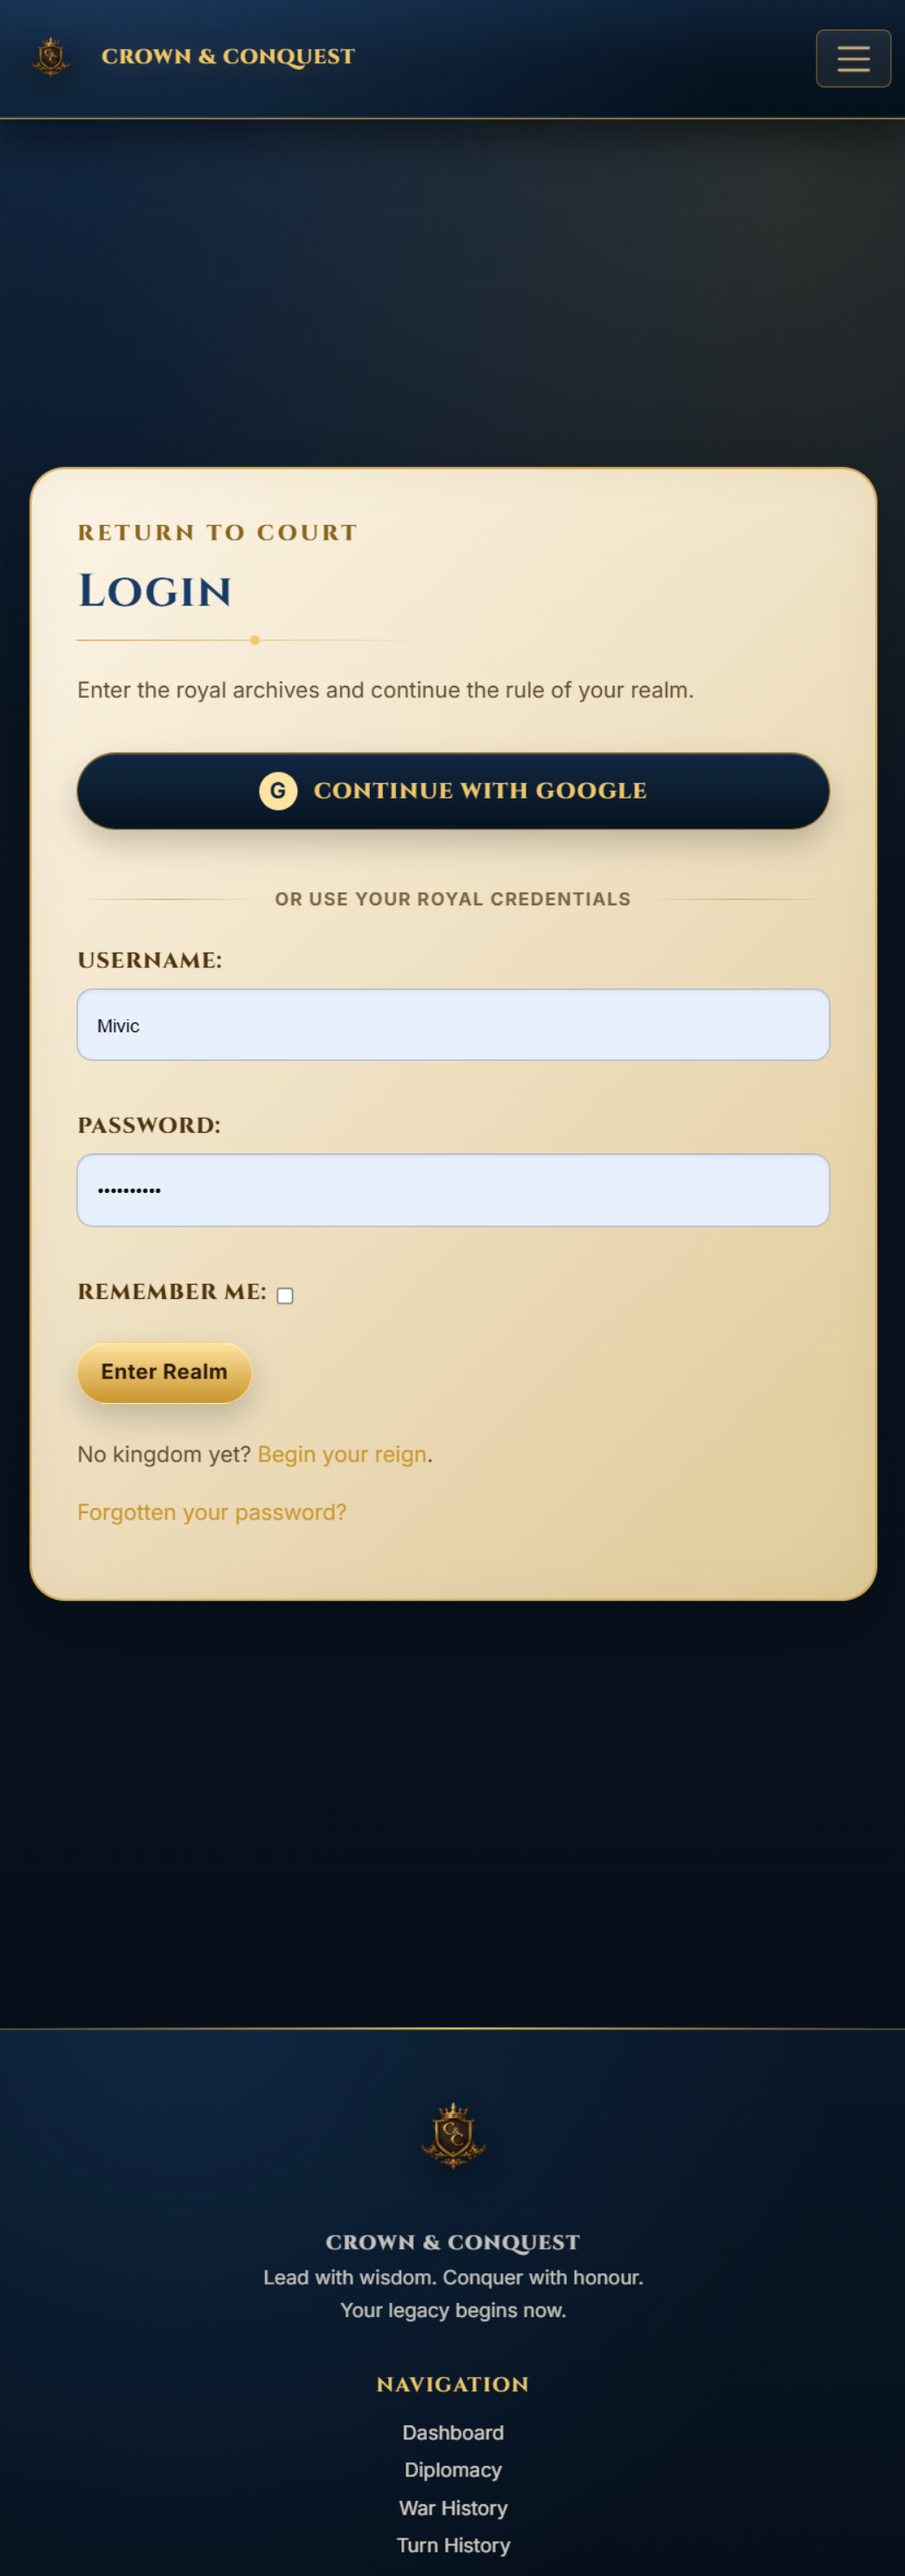
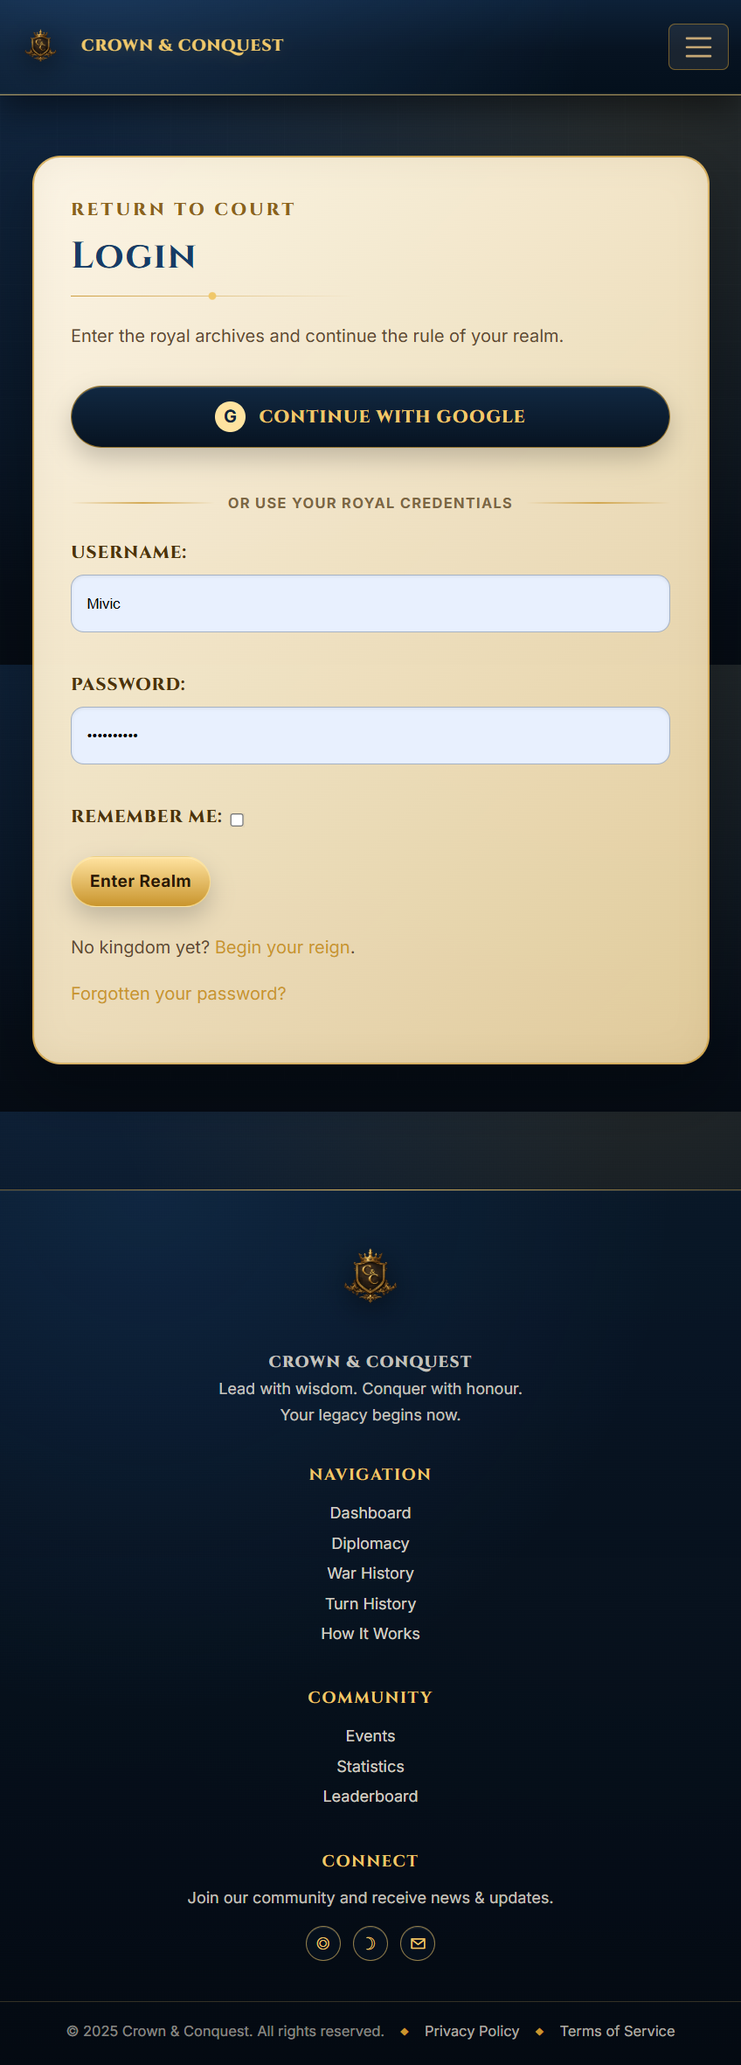
Add new wireframe and screenshot assets; update styles and templates
- Added new wireframe images for various pages including dashboard, kingdom detail, and event history.
- Included screenshots for validation of HTML and CSS for multiple pages.
- Updated  to include new linting tools (flake8, mccabe, pycodestyle, pyflakes).
- Removed obsolete  file and consolidated styles into .
- Enhanced responsive navbar styles in .
- Updated JavaScript for statistics charts.
- Modified base template to improve navbar structure and accessibility.
- Adjusted headings in , , and  for better semantics.

diff --git a/templates/base.html b/templates/base.html
@@ -13,8 +13,6 @@
         {% endblock %}
     </title>
 
-    <link rel="icon" type="image/png" href="{% static 'images/favicon.png' %}">
-
     <!-- Google Fonts -->
     <link rel="preconnect" href="https://fonts.googleapis.com">
     <link rel="preconnect" href="https://fonts.gstatic.com" crossorigin>
@@ -35,7 +33,7 @@
 <body>
 
     <header class="site-header">
-        <nav class="navbar navbar-expand-xxl royal-navbar" aria-label="Primary navigation">
+        <nav class="navbar navbar-expand-xxl royal-navbar" data-bs-theme="dark" aria-label="Primary navigation">
             <div class="container-fluid royal-navbar-inner">
                 <a class="navbar-brand royal-brand" href="{% url 'home' %}">
                     <img src="{% static 'images/logos/alternate-logo-one.png' %}" alt="Crown & Conquest crest"
@@ -48,132 +46,79 @@
                     aria-label="Toggle navigation">
                     <span class="navbar-toggler-icon"></span>
                 </button>
+
                 <div class="collapse navbar-collapse" id="primaryNavigation">
-
-                    <ul class="navbar-nav royal-nav ms-auto">
-
+                    <ul class="navbar-nav royal-nav ms-auto mb-2 mb-xxl-0">
                         {% if user.is_authenticated %}
-
                         <li class="nav-item">
                             <a class="nav-link {% if request.resolver_match.url_name == 'dashboard' %}active{% endif %}"
-                                href="{% url 'dashboard' %}">
-                                Dashboard
-                            </a>
+                                href="{% url 'dashboard' %}">Dashboard</a>
                         </li>
-
                         <li class="nav-item">
                             <a class="nav-link {% if request.resolver_match.url_name == 'diplomacy' %}active{% endif %}"
-                                href="{% url 'wars:diplomacy' %}">
-                                Diplomacy
-                            </a>
+                                href="{% url 'wars:diplomacy' %}">Diplomacy</a>
                         </li>
-
                         <li class="nav-item">
                             <a class="nav-link {% if request.resolver_match.url_name == 'war_list' %}active{% endif %}"
-                                href="{% url 'wars:war_list' %}">
-                                War History
-                            </a>
+                                href="{% url 'wars:war_list' %}">War History</a>
                         </li>
-
                         <li class="nav-item">
                             <a class="nav-link {% if request.resolver_match.url_name == 'turn_history' %}active{% endif %}"
-                                href="{% url 'turn_history' %}">
-                                Turn History
-                            </a>
+                                href="{% url 'turn_history' %}">Turn History</a>
                         </li>
-
                         <li class="nav-item">
                             <a class="nav-link {% if request.resolver_match.url_name == 'event_history' %}active{% endif %}"
-                                href="{% url 'event_history' %}">
-                                Events
-                            </a>
+                                href="{% url 'event_history' %}">Events</a>
                         </li>
-
                         <li class="nav-item">
                             <a class="nav-link {% if request.resolver_match.url_name == 'kingdom_statistics' %}active{% endif %}"
-                                href="{% url 'kingdom_statistics' %}">
-                                Statistics
-                            </a>
+                                href="{% url 'kingdom_statistics' %}">Statistics</a>
                         </li>
-
                         <li class="nav-item">
                             <a class="nav-link premium-link {% if request.resolver_match.url_name == 'pricing' %}active{% endif %}"
                                 href="{% url 'payments:pricing' %}">
-                                {% if user.kingdom and user.kingdom.is_premium %}
-                                Premium
-                                {% else %}
-                                Upgrade
-                                {% endif %}
+                                {% if user.kingdom and user.kingdom.is_premium %}Premium{% else %}Upgrade{% endif %}
                             </a>
                         </li>
-
                         <li class="nav-item">
                             <a class="nav-link {% if request.resolver_match.url_name == 'kingdom_settings' %}active{% endif %}"
-                                href="{% url 'kingdom_settings' %}">
-                                Settings
-                            </a>
+                                href="{% url 'kingdom_settings' %}">Settings</a>
                         </li>
-
                         <li class="nav-item">
                             <a class="nav-link {% if request.resolver_match.url_name == 'account_logout' %}active{% endif %}"
-                                href="{% url 'account_logout' %}">
-                                Logout
-                            </a>
+                                href="{% url 'account_logout' %}">Logout</a>
                         </li>
-
                         {% else %}
-
                         <li class="nav-item">
                             <a class="nav-link {% if request.resolver_match.url_name == 'home' %}active{% endif %}"
-                                href="{% url 'home' %}">
-                                Home
-                            </a>
+                                href="{% url 'home' %}">Home</a>
                         </li>
-
                         <li class="nav-item">
                             <a class="nav-link {% if request.resolver_match.url_name == 'leaderboard' %}active{% endif %}"
-                                href="{% url 'leaderboard' %}">
-                                Leaderboard
-                            </a>
+                                href="{% url 'leaderboard' %}">Leaderboard</a>
                         </li>
-
                         <li class="nav-item">
                             <a class="nav-link {% if request.resolver_match.url_name == 'mechanics' %}active{% endif %}"
-                                href="{% url 'mechanics' %}">
-                                How It Works
-                            </a>
+                                href="{% url 'mechanics' %}">How It Works</a>
                         </li>
-
                         <li class="nav-item">
                             <a class="nav-link premium-link {% if request.resolver_match.url_name == 'pricing' %}active{% endif %}"
-                                href="{% url 'payments:pricing' %}">
-                                Premium
-                            </a>
+                                href="{% url 'payments:pricing' %}">Premium</a>
                         </li>
-
                         <li class="nav-item">
                             <a class="nav-link {% if request.resolver_match.url_name == 'account_login' %}active{% endif %}"
-                                href="{% url 'account_login' %}">
-                                Login
-                            </a>
+                                href="{% url 'account_login' %}">Login</a>
                         </li>
-
                         <li class="nav-item">
                             <a class="nav-link nav-link-cta {% if request.resolver_match.url_name == 'account_signup' %}active{% endif %}"
-                                href="{% url 'account_signup' %}">
-                                Begin
-                            </a>
+                                href="{% url 'account_signup' %}">Begin</a>
                         </li>
-
                         {% endif %}
-
                     </ul>
-
                 </div>
-
+            </div>
         </nav>
     </header>
-
 
     <main>
         {% if messages %}

diff --git a/static/css/style.css b/static/css/style.css
@@ -1616,7 +1616,7 @@ div.notification {
     gap: .45rem;
 }
 .royal-brand {
-    margin-right: 325px !important;
+    margin-right: 0 !important;
 }
 
 #id_rallying_cry_helptext {
@@ -1684,4 +1684,110 @@ div.notification {
     .war-action-form .btn {
         width: 100%;
     }
+}
+
+
+/* Bootstrap-native responsive navbar layout.
+   Bootstrap owns the flex, wrapping, breakpoint and collapse behaviour;
+   the project-specific rules below only preserve the existing visual theme. */
+.royal-navbar-inner {
+    display: flex;
+    flex-wrap: inherit;
+    align-items: center;
+    justify-content: space-between;
+    gap: 0;
+    width: min(100%, 1760px);
+    min-height: 86px;
+    margin-inline: auto;
+    padding: 0 clamp(1.35rem, 3vw, 3.1rem);
+}
+
+.royal-brand {
+    flex: 0 1 auto;
+    min-width: 0;
+    margin-right: 1rem !important;
+}
+
+.royal-toggler {
+    flex: 0 0 auto;
+    margin-left: auto;
+}
+
+.royal-navbar .navbar-collapse {
+    flex-grow: 1;
+}
+
+.royal-nav {
+    align-items: center;
+}
+
+@media (max-width: 1399.98px) {
+    .royal-navbar-inner {
+        min-height: 80px;
+        padding: .7rem clamp(.7rem, 2vw, 1.15rem);
+    }
+
+    .royal-brand {
+        max-width: calc(100% - 72px);
+        margin-right: .75rem !important;
+    }
+
+    .royal-brand-mark {
+        width: 52px;
+        height: 52px;
+    }
+
+    .royal-brand span {
+        overflow: hidden;
+        text-overflow: ellipsis;
+    }
+
+    .royal-navbar .navbar-collapse {
+        flex-basis: 100%;
+        width: 100%;
+        margin-top: .7rem;
+        padding: .85rem;
+        border: 1px solid rgba(240, 200, 106, .25);
+        border-radius: var(--radius-md);
+        background: rgba(7, 17, 29, .97);
+    }
+
+    .royal-nav {
+        align-items: stretch;
+        gap: .25rem;
+    }
+
+    .royal-nav .nav-link {
+        width: 100%;
+        padding: .75rem .9rem;
+        font-size: .88rem;
+        text-align: center;
+    }
+}
+
+@media (max-width: 420px) {
+    .royal-navbar-inner {
+        padding-inline: .65rem;
+    }
+
+    .royal-brand {
+        gap: .55rem;
+        max-width: calc(100% - 58px);
+        font-size: .82rem;
+        letter-spacing: .02em;
+    }
+
+    .royal-brand-mark {
+        width: 38px;
+        height: 38px;
+    }
+
+    .royal-toggler {
+        padding: .35rem .5rem;
+    }
+}
+
+.royal-brand {
+    flex-shrink: 0 !important;
+    margin-right: 2rem !important;
 }

diff --git a/wars/templates/wars/diplomacy.html b/wars/templates/wars/diplomacy.html
@@ -13,7 +13,8 @@
 <div class="container section-block">
 
     <div class="page-intro">
-        <h1>Border Intelligence</h1>
+        <div headingoffset="1"><h1>Border Intelligence</h1></div>
+        
         <p>
             War is the continuation of policy by other means. Before the clash of arms, there is reconnaissance.
             The scouts have returned with intelligence about neighbouring realms. Study their military strength.

diff --git a/wars/templates/wars/my_wars.html b/wars/templates/wars/my_wars.html
@@ -13,7 +13,8 @@
 <div class="container section-block">
 
     <div class="page-intro">
-        <h1>Military Archives</h1>
+        <div headingoffset="1"><h1>Military Archives</h1></div>
+        
         <p>
             The annals of your kingdom’s military campaigns. Here lies the record of every conflict declared,
             every battle fought, and every victory or defeat sustained. Some campaigns remain unresolved,

diff --git a/core/templates/core/leaderboard.html b/core/templates/core/leaderboard.html
@@ -12,7 +12,7 @@
     </div>
 </section>
 
-<section class="ranking-board parchment-panel">
+<div class="ranking-board parchment-panel">
     {% if kingdom_list %}
     <div class="ranking-list">
         {% for kingdom in kingdom_list %}
@@ -34,5 +34,5 @@
     {% else %}
         <p>No kingdoms have risen to fame yet.</p>
     {% endif %}
-</section>
+</div>
 {% endblock %}

diff --git a/wars/templates/wars/declare_war.html b/wars/templates/wars/declare_war.html
@@ -40,7 +40,7 @@
                     <div class="row mb-4">
 
                         <div class="col-md-6">
-                            <h5>Military</h5>
+                            <h4 class="h5">Military</h4>
 
                             <ul class="list-unstyled">
                                 <li>

diff --git a/kingdoms/templates/kingdoms/dashboard.html b/kingdoms/templates/kingdoms/dashboard.html
@@ -20,7 +20,7 @@
                 {% endif %}
             </h1>
 
-            <h3>Ruler: {{ kingdom.ruler_name }}</h3>
+            <h2 class="h3">Ruler: {{ kingdom.ruler_name }}</h2>
             <p>Turn: {{ kingdom.turn_number }} · Score {{ kingdom.leaderboard_score }}</p>
         </div>
     </div>

diff --git a/kingdoms/templates/kingdoms/event_response.html b/kingdoms/templates/kingdoms/event_response.html
@@ -12,7 +12,7 @@
     <div class="card shadow parchment-panel">
 
         <div class="card-header event-title">
-            <h1>Crisis in the Realm</h1>
+            <div headingoffset="1"><h1>Crisis in the Realm</h1></div>
         </div>
 
         <div class="card-body">

diff --git a/static/js/statistics.js b/static/js/statistics.js
@@ -1,3 +1,5 @@
+/* global Chart */
+
 const charts = document.querySelectorAll(".statistics-chart canvas");
 const chartDataElement = document.getElementById("chart-data");
 

diff --git a/crown_and_conquest/settings.py b/crown_and_conquest/settings.py
@@ -27,7 +27,7 @@ BASE_DIR = Path(__file__).resolve().parent.parent
 SECRET_KEY = os.environ.get("SECRET_KEY", "dev-insecure-crown-and-conquest-key")
 
 # SECURITY WARNING: don't run with debug turned on in production!
-DEBUG = False
+DEBUG = True
 
 # Stripe Settings
 STRIPE_SECRET_KEY = os.environ.get("STRIPE_SECRET_KEY")
